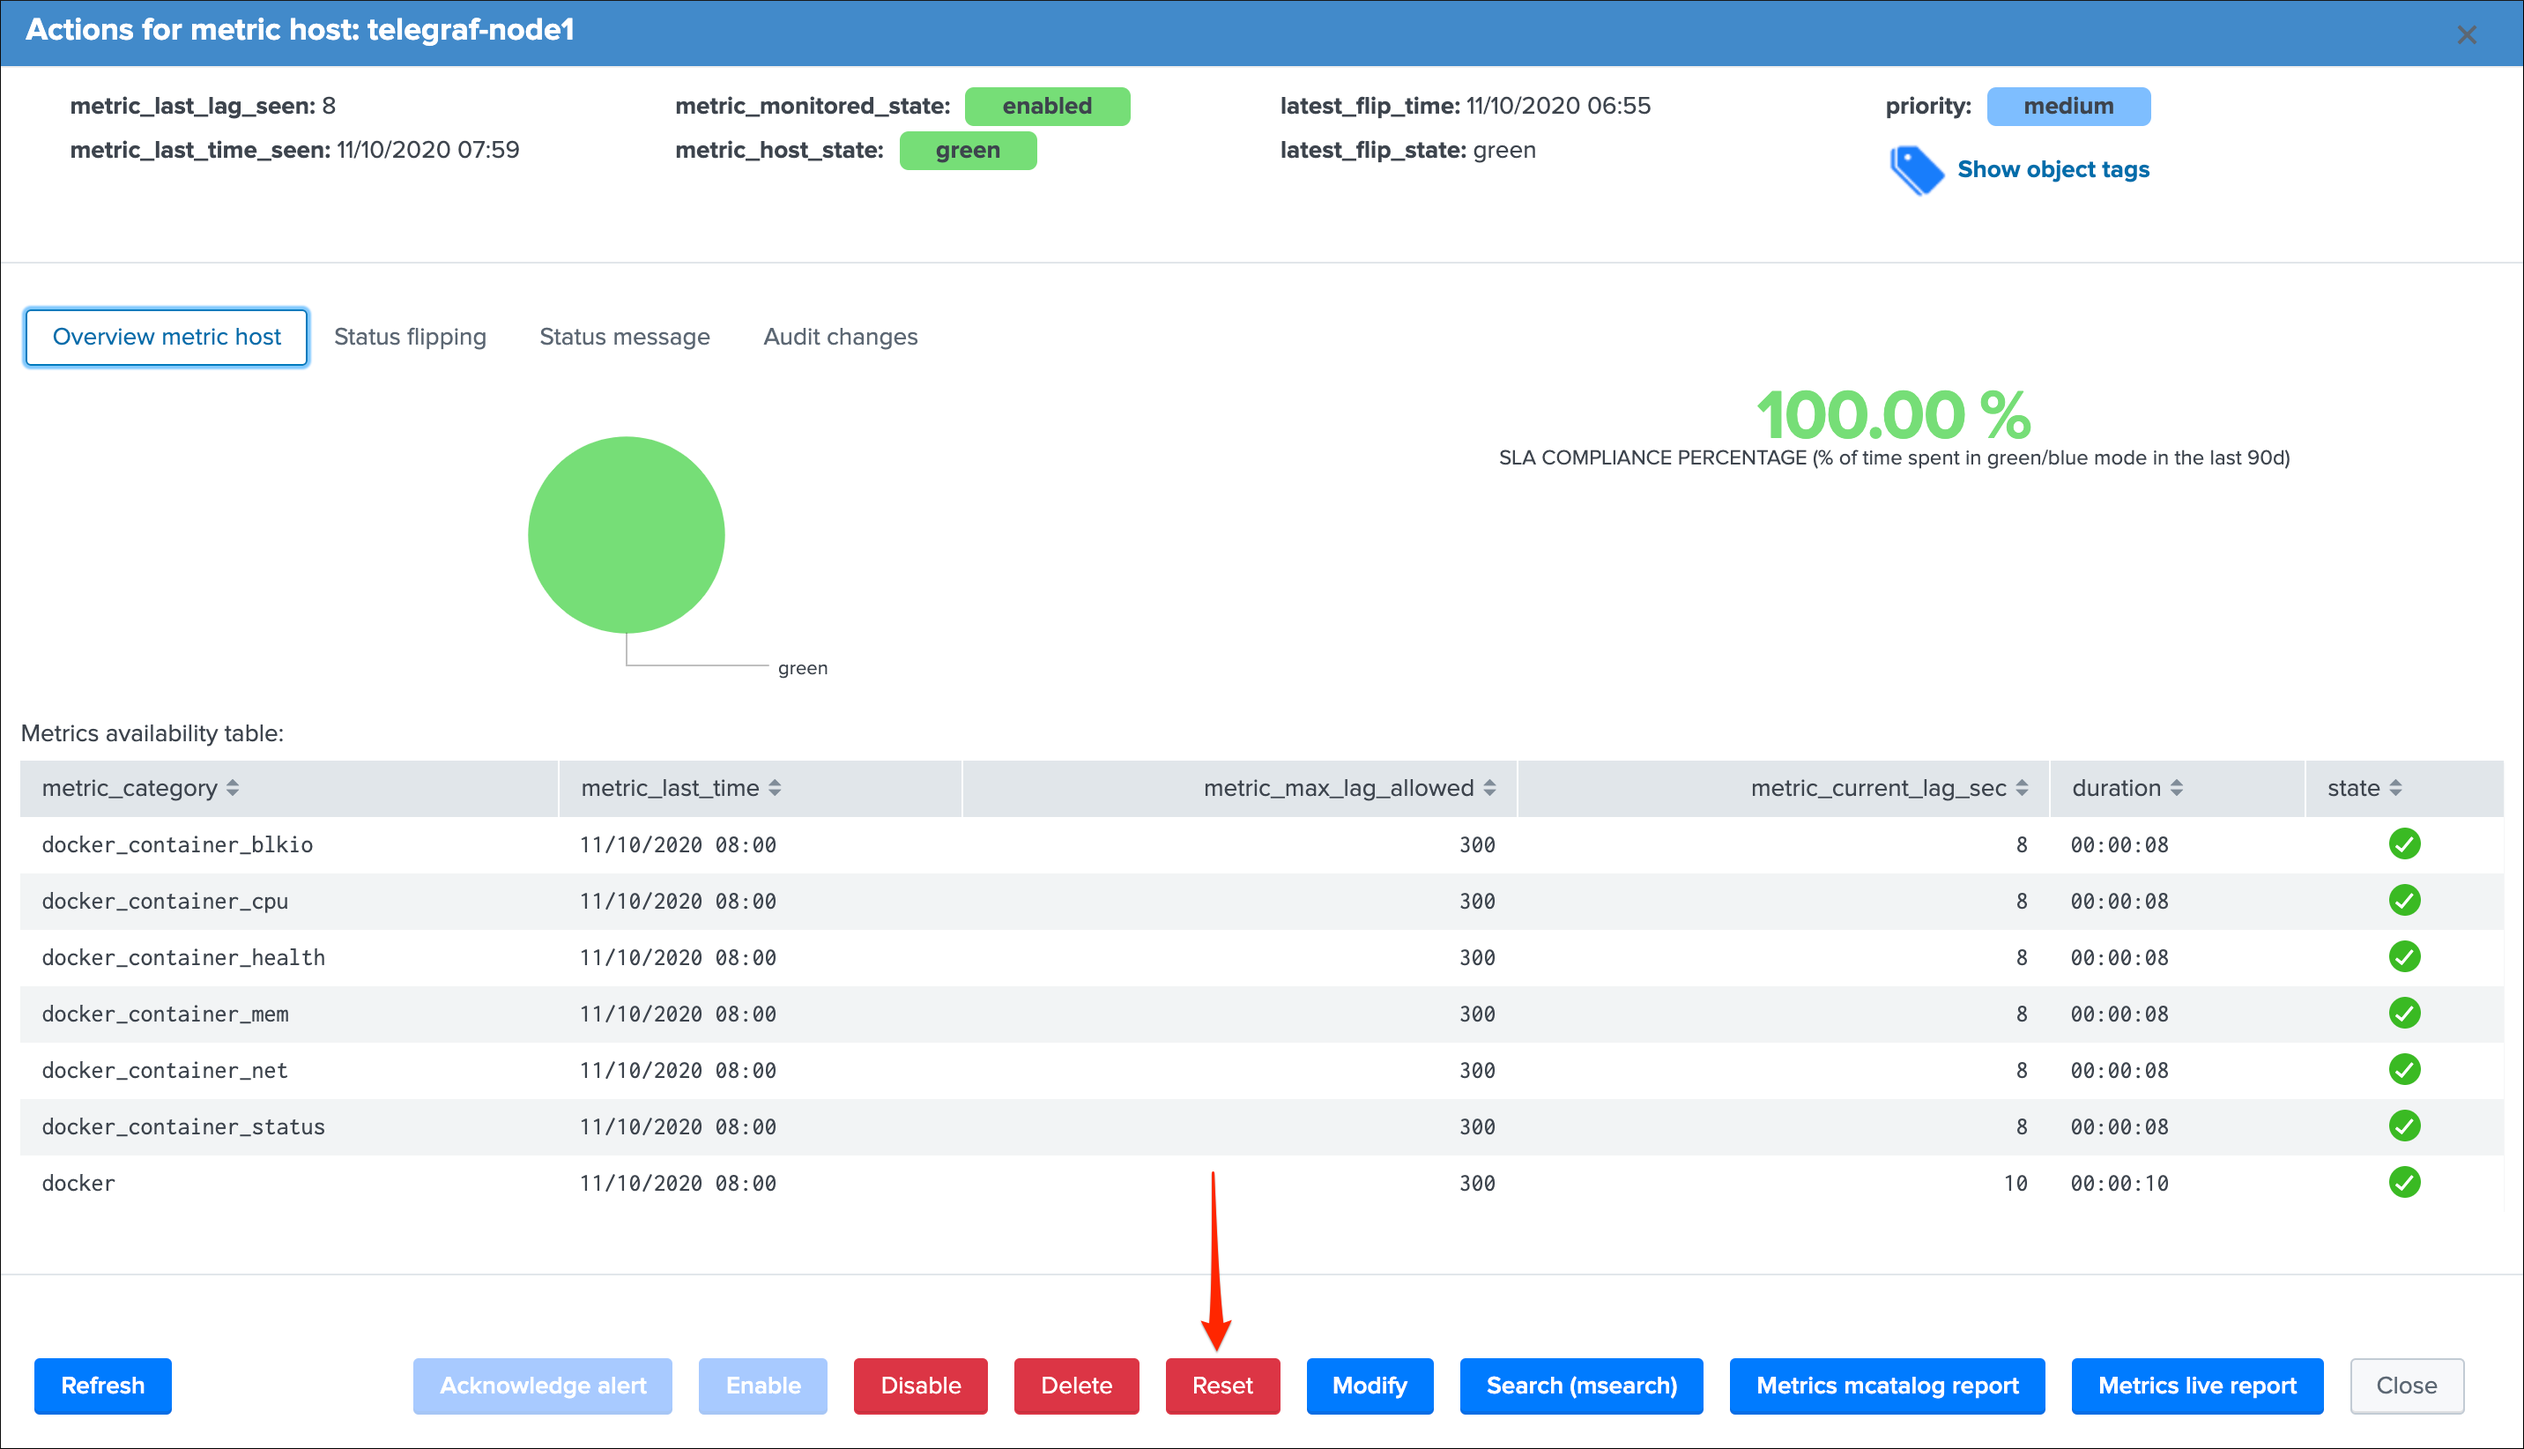
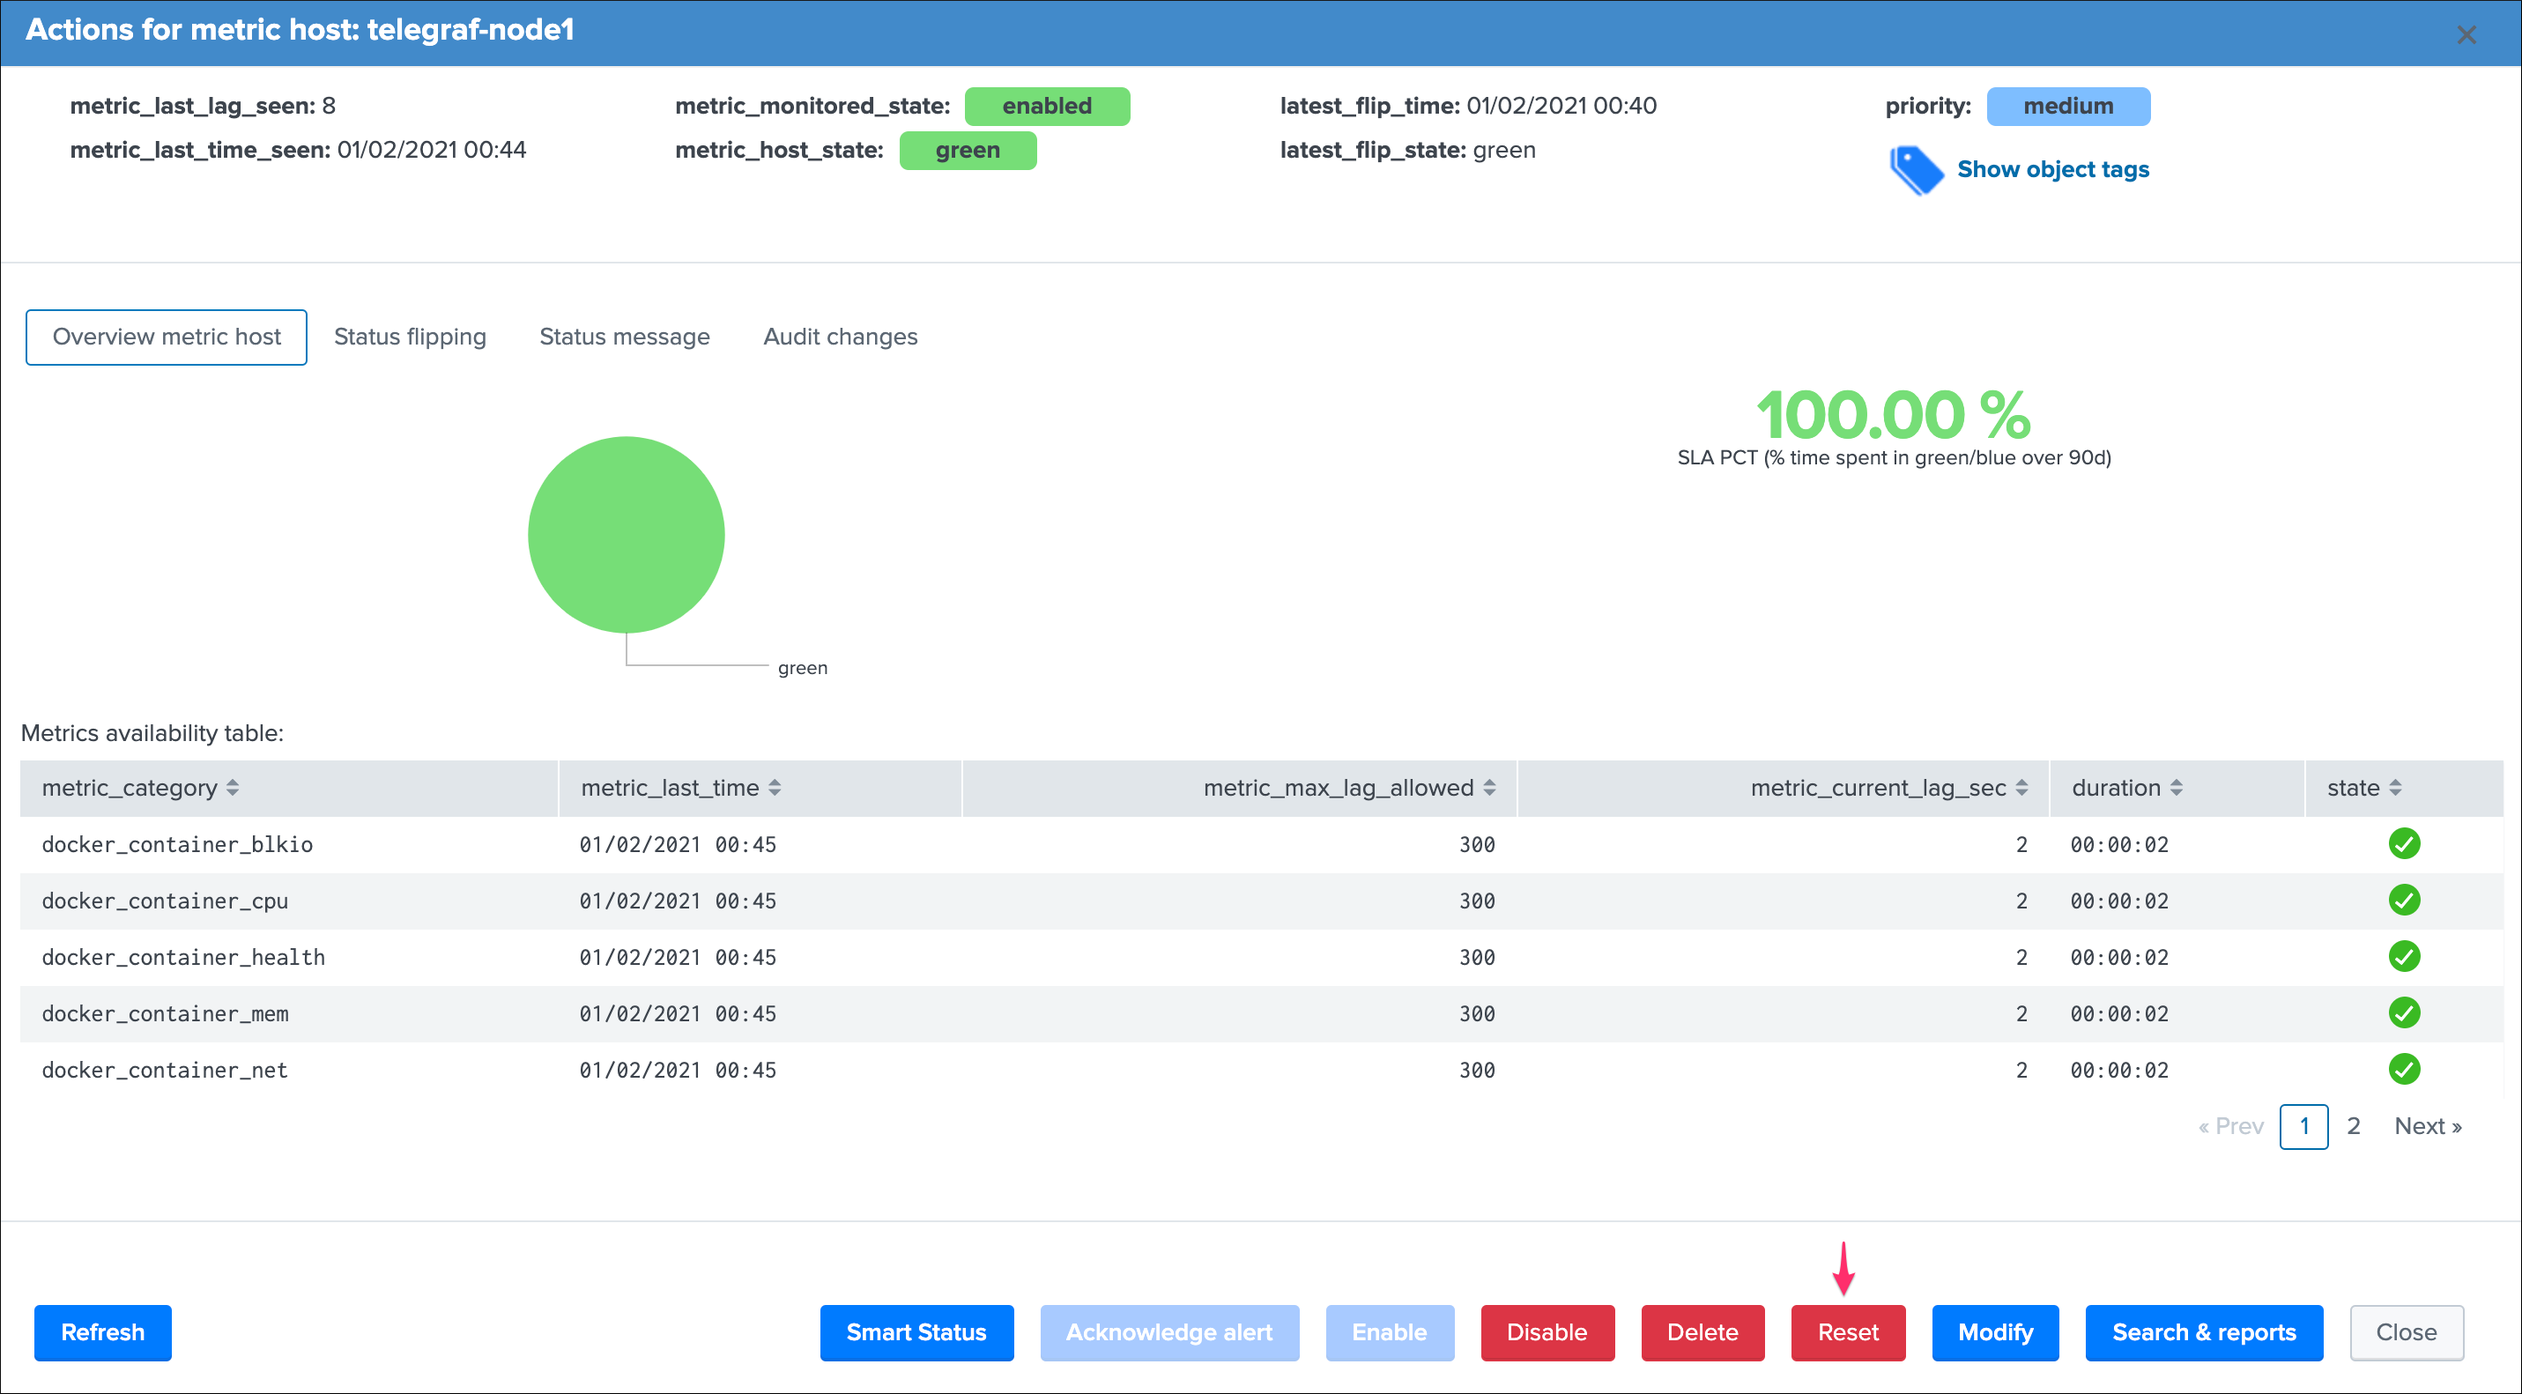
docs update

diff --git a/docs/userguide.rst b/docs/userguide.rst
@@ -391,6 +391,7 @@ Action buttons
 **Actions:**
 
 - ``Refresh`` will refresh all values related to this entity, it will actually run a specific version of the tracker and update the KVstore record of this data source. Charts and other calculations are refreshed as well.
+- ``Smart Status`` is a powerful TrackMe REST API endpoint that does automated analysis and conditional correlations to provide an advanced status of the entity, and fast the investigaton of an issue root cause.
 - ``Acknowledge alert`` can only be clicked if the data source is effectively in a red state, acknowledging an alert prevent the out of the box alerts from triggering a new alert for this entity until the acknowledgment expires.
 - ``Enable`` can only be clicked if the monitoring state is disabled, if clicked and confirmed, the value of the field ``data_monitored_state`` will switch from disabled to enabled
 - ``Disable`` opposite of the previous
@@ -1667,10 +1668,31 @@ In the UI, access the Smart Status the open-up screen for a given entity, for da
    :align: center
    :width: 1200px
 
-*Smart Status example:*
+*Smart Status example: (normal state entity)*
 
 .. image:: img/smart_status/access_ui2.png
    :alt: img/smart_status/access_ui2.png
+   :align: center
+   :width: 1200px
+
+*Smart Status example: (alert state entity due to outliers)*
+
+.. image:: img/smart_status/access_ui3.png
+   :alt: img/smart_status/access_ui3.png
+   :align: center
+   :width: 1200px
+
+*Smart Status example: (alert state entity due to data sampling exclusive rule matching PII data)*
+
+.. image:: img/smart_status/access_ui4.png
+   :alt: img/smart_status/access_ui4.png
+   :align: center
+   :width: 1200px
+
+*Smart Status example: (alert state entity due to lagging)*
+
+.. image:: img/smart_status/access_ui5.png
+   :alt: img/smart_status/access_ui5.png
    :align: center
    :width: 1200px
 
@@ -1683,6 +1705,11 @@ The Smart Status feature is serviced by a REST API endpoint, as such it can be r
 
 .. image:: img/smart_status/access_rest.png
    :alt: img/smart_status/access_rest.png
+   :align: center
+   :width: 1200px
+
+.. image:: img/smart_status/access_rest2.png
+   :alt: img/smart_status/access_rest2.png
    :align: center
    :width: 1200px
 

diff --git a/docs/rest_api_reference.rst b/docs/rest_api_reference.rst
@@ -47,8 +47,8 @@ These endpoints can be used to interract with TrackMe in a programmatic fashion,
 REST API trackme SPL command
 ----------------------------
 
-Interracting with the REST API in SPL queries
-^^^^^^^^^^^^^^^^^^^^^^^^^^^^^^^^^^^^^^^^^^^^^
+Interacting with the REST API in SPL queries
+^^^^^^^^^^^^^^^^^^^^^^^^^^^^^^^^^^^^^^^^^^^^
 
 TrackMe provides a Python based custom command ``trackme`` that acts as a REST API wrapper to interract with the API endpoints.
 
